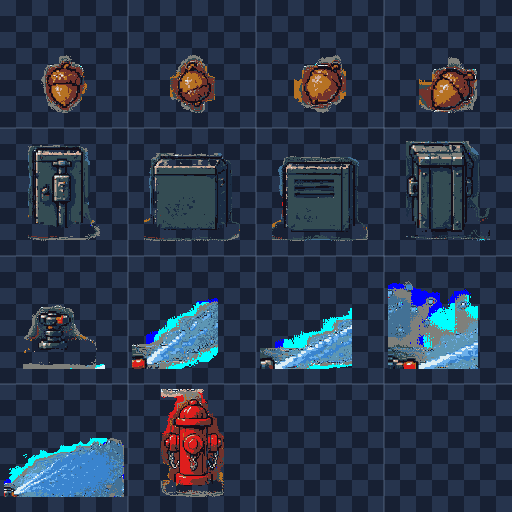
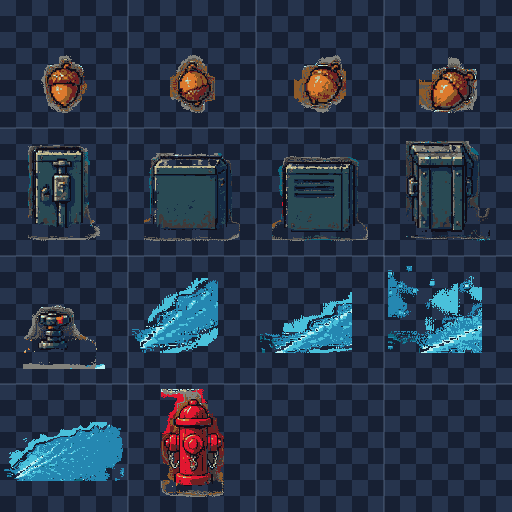
fix: align Brutus stomps and sprinkler spray

diff --git a/app/trash-dash-game.tsx b/app/trash-dash-game.tsx
@@ -60,6 +60,7 @@ import {
   brutusAnimation,
   brutusAnimationFrame,
   brutusArenaHazards,
+  brutusDrawRect,
   createBrutusState,
   isBrutusTopHit,
   moveBrutusInArena,
@@ -2019,6 +2020,15 @@ export function TrashDashGame() {
           if (intersects(attackRect, enemy)) damageEnemy(world, enemy);
         }
 
+        const brutusStomped = enemy.brutusState
+          ? isBrutusTopHit(player, enemy, previousBottom, enemy.brutusState, enemy.stateElapsed)
+          : false;
+        if (brutusStomped) {
+          player.vy = -360;
+          damageEnemy(world, enemy, true);
+          continue;
+        }
+
         if (!intersects(player, enemy)) continue;
         const bossAnimation = enemy.kind === "boss" && !enemy.brutusState
           ? BOSS_ANIMATIONS[enemy.animationState as keyof typeof BOSS_ANIMATIONS]
@@ -2031,9 +2041,7 @@ export function TrashDashGame() {
               || (enemy.animationState === "charge" && isBossChargeActive(bossFrame))
           : !levelTwoEnemyKinds.has(enemy.kind)
             || levelTwoEnemyCanContactDamage(enemy.kind, enemy.behaviorState);
-        const stomped = enemy.brutusState
-          ? isBrutusTopHit(player, enemy, previousBottom)
-          : player.vy > 80 && previousBottom <= enemy.y + 16;
+        const stomped = !enemy.brutusState && player.vy > 80 && previousBottom <= enemy.y + 16;
         if (stomped) {
           player.vy = -360;
           damageEnemy(world, enemy, true);
@@ -2485,7 +2493,7 @@ export function TrashDashGame() {
             drawSprite(
               levelTwoPropFrame("sprinkler-spray", world.elapsed) as Frame,
               direction > 0 ? x + item.w / 2 - 8 : x + item.w / 2 - 112,
-              item.y - 84,
+              item.y - 72,
               120,
               96,
               direction < 0,
@@ -2640,14 +2648,13 @@ export function TrashDashGame() {
             const animation = brutusAnimation(enemy.brutusState);
             const stateFrame = brutusAnimationFrame(animation, enemy.stateElapsed);
             const frame = [stateFrame * 256, animation.row * 192, 256, 192] as Frame;
-            const drawWidth = 220;
-            const drawHeight = 165;
+            const draw = brutusDrawRect(enemy);
             drawSprite(
               frame,
-              x + enemy.w / 2 - drawWidth / 2,
-              enemy.y + enemy.h - drawHeight + drawHeight * (16 / 192),
-              drawWidth,
-              drawHeight,
+              draw.x - camera,
+              draw.y,
+              draw.w,
+              draw.h,
               flip,
               1,
               brutusMotionRef.current,
